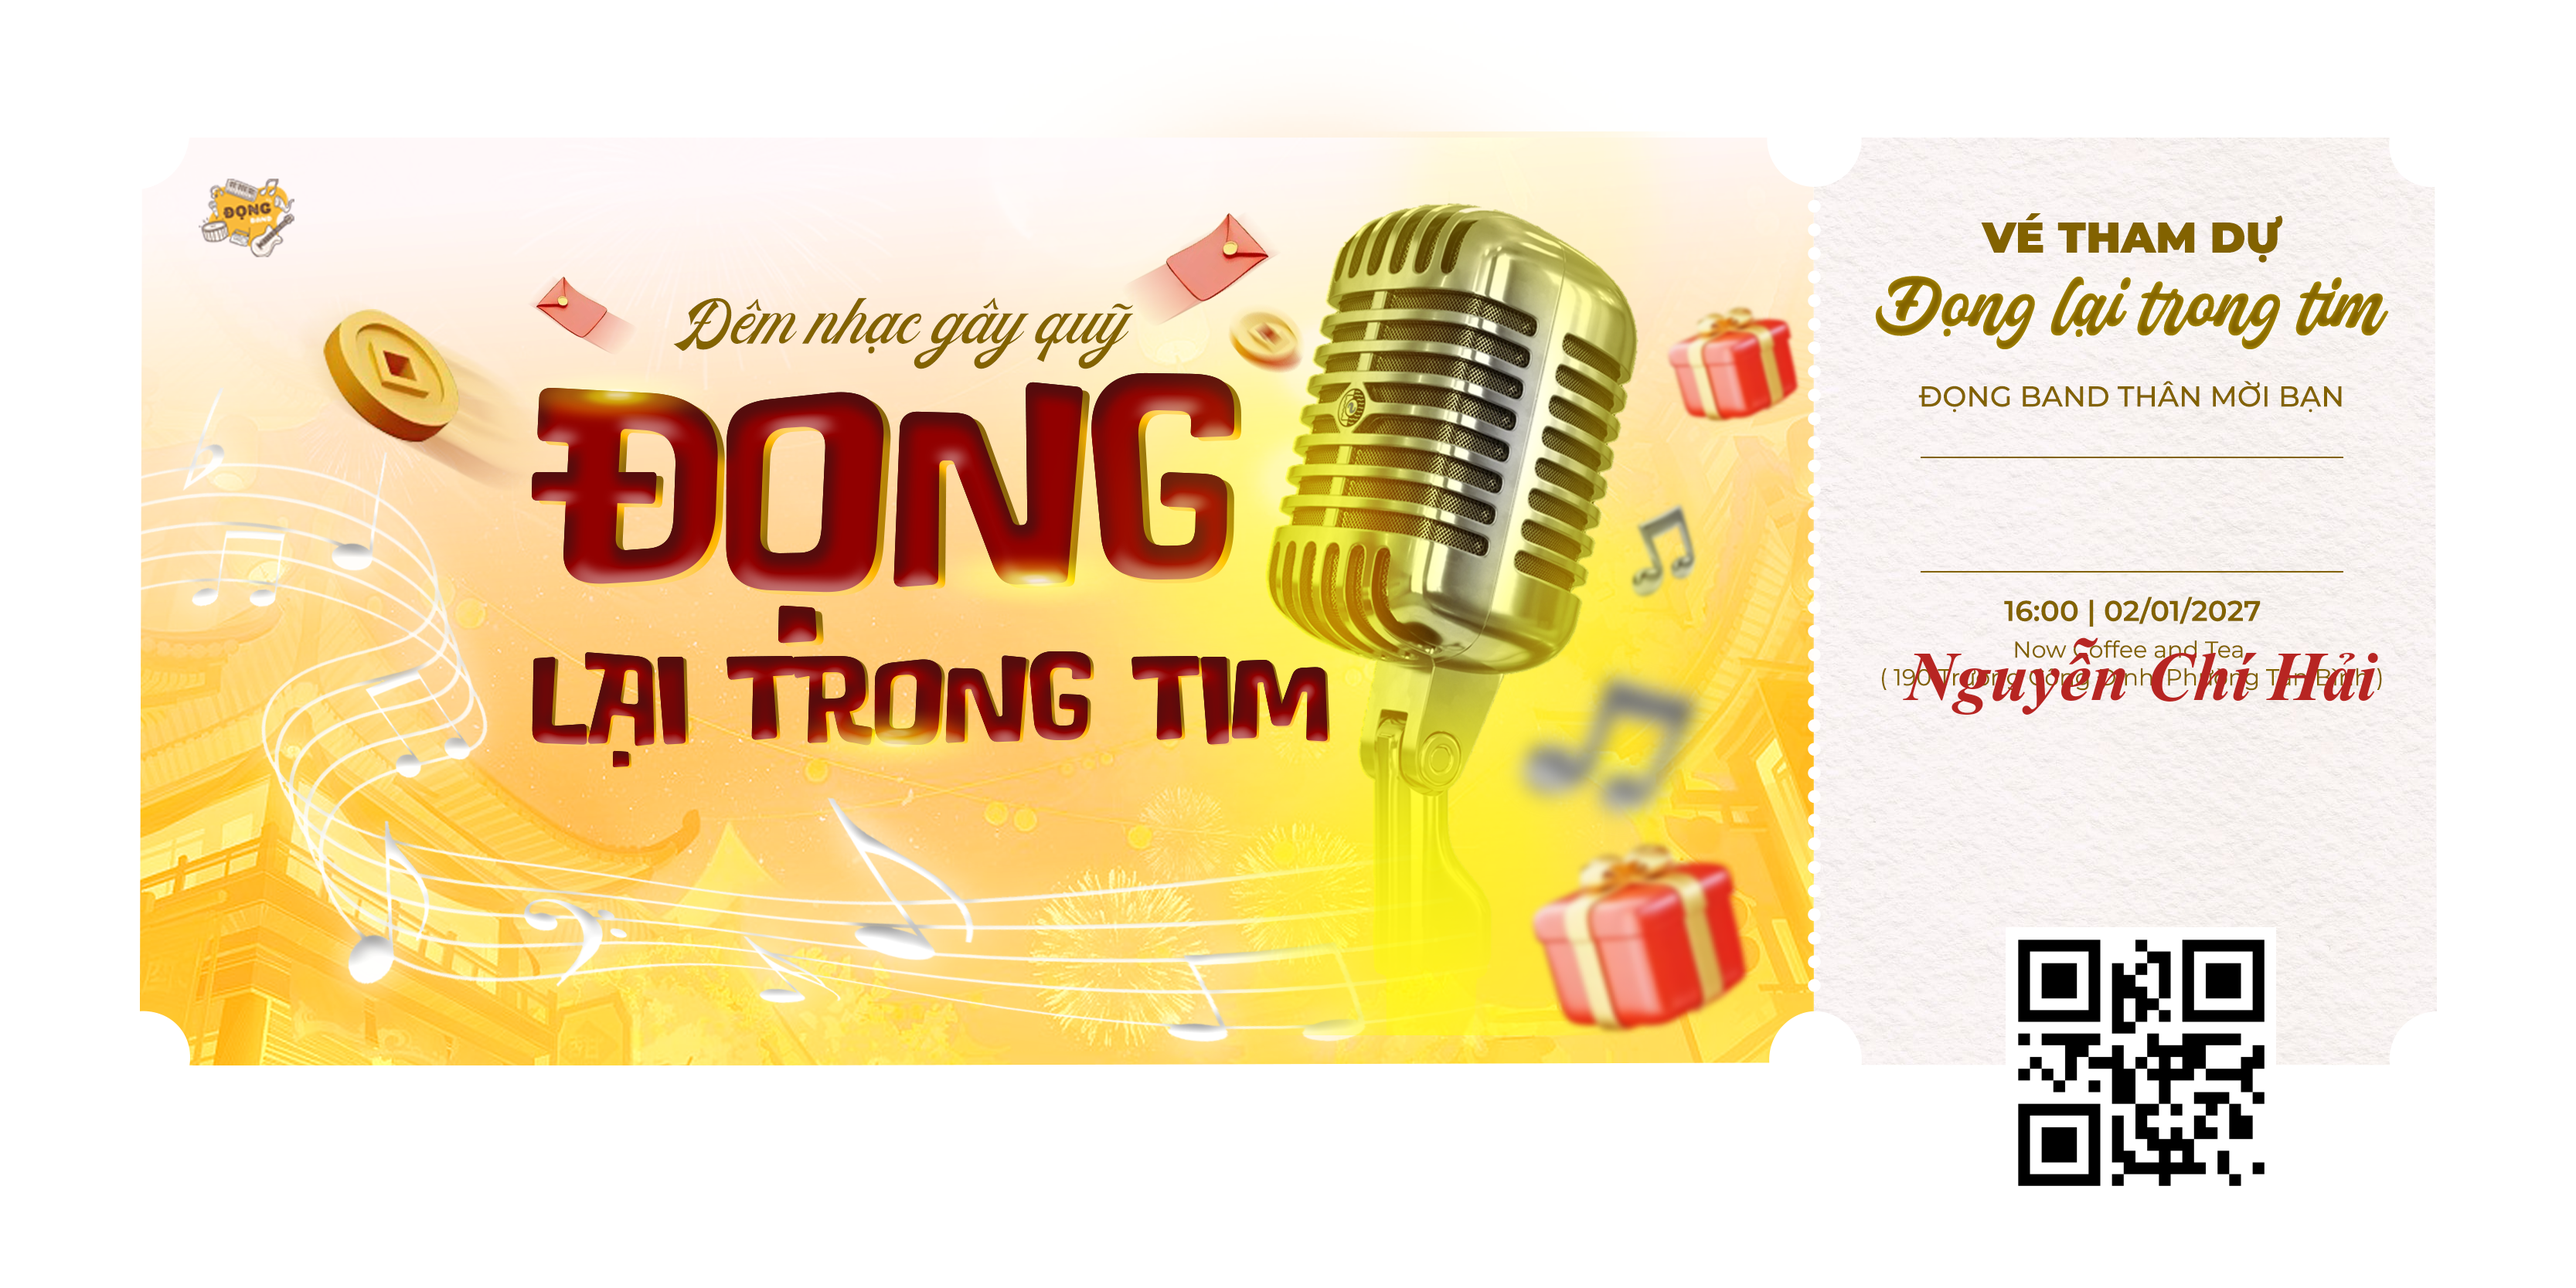
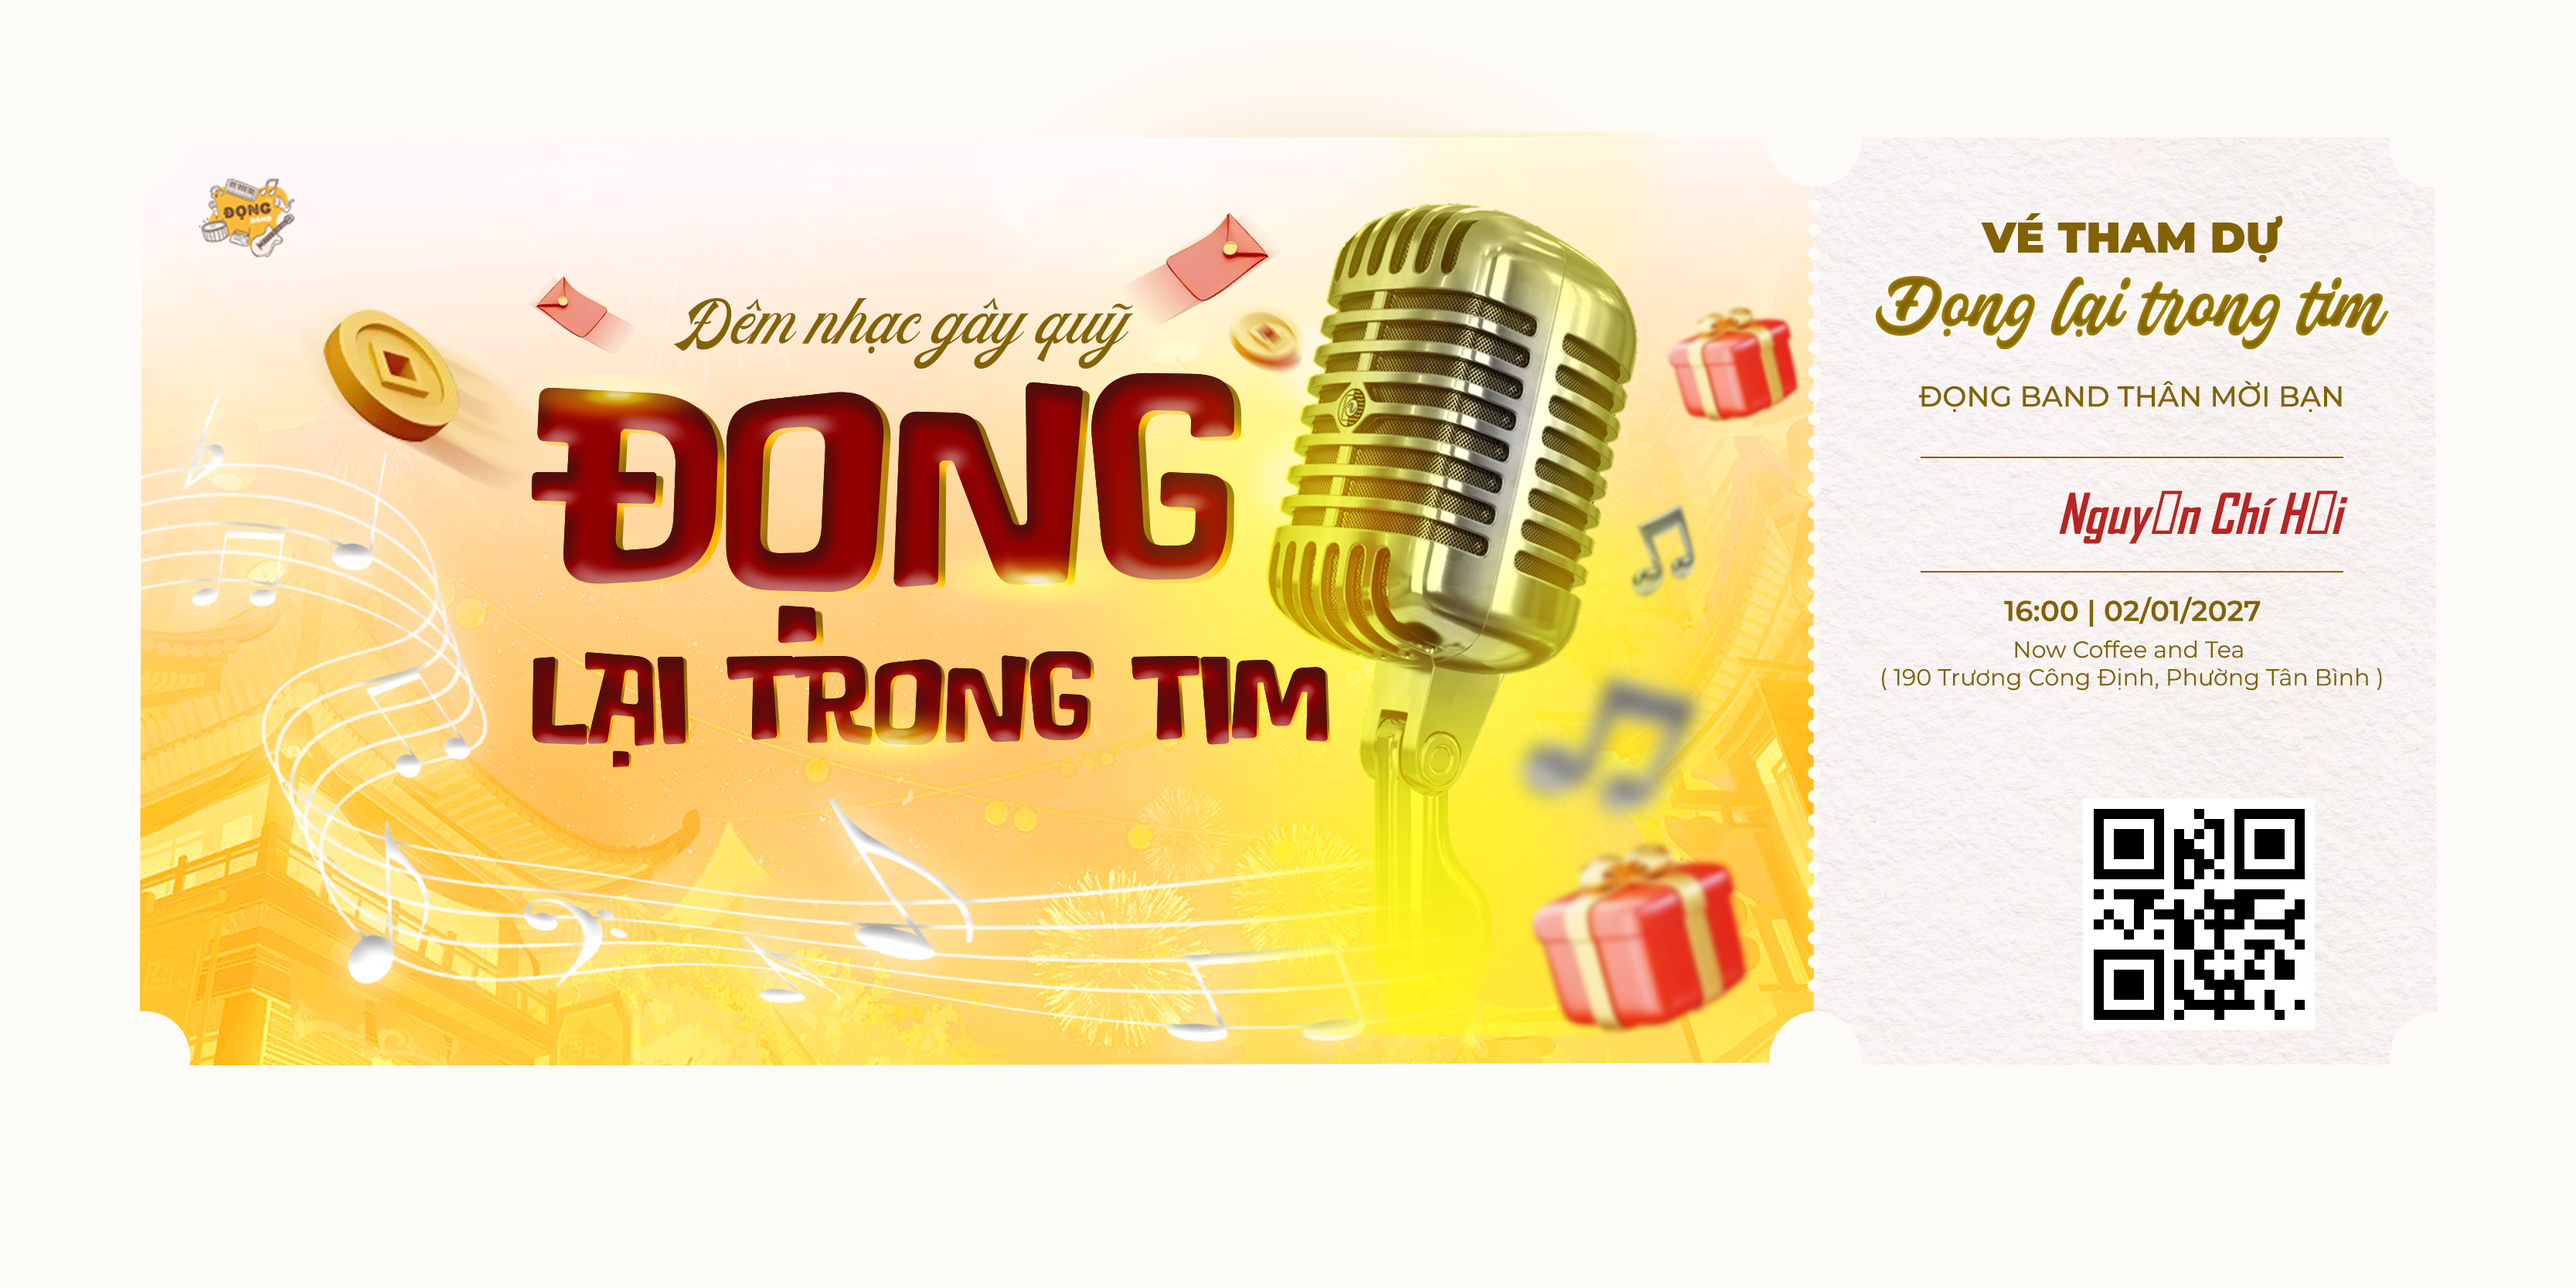
Fix ticket layout, center text and QR code, and add background color to fix black corners

Changed region(s): [[0.7801, 0.6239, 0.9049, 0.9358], [0.7489, 0.4991, 0.9361, 0.5615], [0.7801, 0.3743, 0.9049, 0.4367]]

diff --git a/test-ticket-gen.js b/test-ticket-gen.js
@@ -1,4 +1,4 @@
-const { createCanvas, loadImage, GlobalFonts } = require('@napi-rs/canvas');
+const { createCanvas, loadImage } = require('@napi-rs/canvas');
 const fs = require('fs');
 const path = require('path');
 const QRCode = require('qrcode');
@@ -6,37 +6,34 @@ const QRCode = require('qrcode');
 async function test() {
   try {
     const templatePath = path.join(process.cwd(), 'public', 'ticket-template.png');
-    const image = await loadImage(templatePath);
+    const templateImage = await loadImage(templatePath);
     
-    const canvas = createCanvas(image.width, image.height);
+    const canvas = createCanvas(templateImage.width, templateImage.height);
     const ctx = canvas.getContext('2d');
     
-    // Draw base image
-    ctx.drawImage(image, 0, 0, image.width, image.height);
+    ctx.fillStyle = '#FDFBF7';
+    ctx.fillRect(0, 0, templateImage.width, templateImage.height);
+
+    ctx.drawImage(templateImage, 0, 0, templateImage.width, templateImage.height);
     
-    // Write name
     ctx.textAlign = 'center';
     ctx.textBaseline = 'middle';
-    ctx.fillStyle = '#b72522'; // Approximate dark red color from original image
+    ctx.fillStyle = '#b72522'; 
+    ctx.font = 'italic bold 70px sans-serif'; 
     
-    // We can use Arial or similar if custom font isn't loaded
-    ctx.font = 'italic bold 90px "Times New Roman"';
-    
-    const textX = 2770;
-    const textY = 875;
+    const textX = 2845;
+    const textY = 663;
     ctx.fillText('Nguyễn Chí Hải', textX, textY);
     
-    // Generate QR
     const qrDataUrl = await QRCode.toDataURL('DLTT123456', { margin: 1, width: 300 });
     const qrImage = await loadImage(qrDataUrl);
     
-    const qrSize = 350;
+    const qrSize = 300;
     const qrX = textX - qrSize / 2;
-    const qrY = 1200; // below address
+    const qrY = 1183 - qrSize / 2; 
     
     ctx.drawImage(qrImage, qrX, qrY, qrSize, qrSize);
     
-    // Output
     const buffer = canvas.toBuffer('image/png');
     fs.writeFileSync('test-ticket-output.png', buffer);
     console.log('Generated test-ticket-output.png');

diff --git a/src/lib/email.ts b/src/lib/email.ts
@@ -24,6 +24,10 @@ export async function sendTicketEmail(order: any) {
   const canvas = createCanvas(templateImage.width, templateImage.height);
   const ctx = canvas.getContext('2d');
 
+  // Fill background with email background color to hide black edges on transparent pngs
+  ctx.fillStyle = '#FDFBF7';
+  ctx.fillRect(0, 0, templateImage.width, templateImage.height);
+
   // Draw base ticket
   ctx.drawImage(templateImage, 0, 0, templateImage.width, templateImage.height);
 
@@ -31,16 +35,17 @@ export async function sendTicketEmail(order: any) {
   ctx.textAlign = 'center';
   ctx.textBaseline = 'middle';
   ctx.fillStyle = '#b72522'; // Dark red matching the ticket
-  ctx.font = 'italic bold 90px "Times New Roman"'; 
+  ctx.font = 'italic bold 70px sans-serif'; 
   
-  const textX = 2770;
-  const textY = 875;
+  // Center X of the right stub is ~2845. Y between the lines is ~663.
+  const textX = 2845;
+  const textY = 663;
   ctx.fillText(order.customerName, textX, textY);
 
-  // Draw QR code below address
-  const qrSize = 350;
+  // Draw QR code below address (Center Y ~ 1183)
+  const qrSize = 300;
   const qrX = textX - qrSize / 2;
-  const qrY = 1200; 
+  const qrY = 1183 - qrSize / 2; 
   ctx.drawImage(qrImage, qrX, qrY, qrSize, qrSize);
 
   // Export to base64
